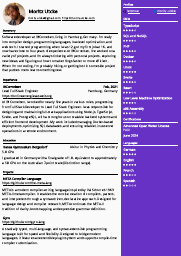
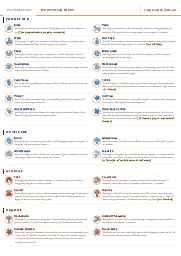
feat: tab strip sits on the pane instead of above it
The strip renders inside the pane card as its header, so the tabs and the
listing share one panel: the selected tab carries the pane's background,
the rest sit on the recessed rail. Padding moved onto the tabs themselves,
and the close button now shows only on the selected tab.

Made by Claude (AI), not a human.

diff --git a/frontend/src/lib/FilePane.svelte b/frontend/src/lib/FilePane.svelte
@@ -1,5 +1,5 @@
 <script lang="ts">
-	import { untrack } from "svelte";
+	import { untrack, type Snippet } from "svelte";
 	import { Card, LoadingSpinner } from "@neoworks-dev/ui";
 	import WarningIcon from "phosphor-svelte/lib/WarningIcon";
 	import {
@@ -72,6 +72,7 @@
 		onBackgroundMenu,
 		onSort,
 		onChanged,
+		header,
 	}: {
 		location: TabLocation;
 		viewMode: ViewMode;
@@ -88,6 +89,8 @@
 		onSort: (key: SortKey) => void;
 		/** Something in this pane wrote to disk, which the undo label follows. */
 		onChanged: () => void;
+		/** Rendered flush against the top edge of the pane, above the listing. */
+		header?: Snippet;
 	} = $props();
 
 	let listing = $state<filesystem.Listing | null>(null);
@@ -645,105 +648,109 @@
 <Card
 	surface="elevated"
 	padding="none"
-	class="flex min-w-0 flex-1 flex-col gap-2 overflow-hidden p-2 shadow-lg"
+	class="flex min-w-0 flex-1 flex-col overflow-hidden shadow-lg"
 >
-	{#if location.kind === "trash"}
-		<div class="flex min-h-0 flex-col gap-2 overflow-y-auto">
-			<TrashPane onRestored={() => onChanged()} />
-		</div>
-	{:else if location.kind === "tag"}
-		<div class="flex min-h-0 flex-col gap-2 overflow-y-auto">
-			<TagPane name={location.name} onOpen={openEntry} onReveal={revealTaggedEntry} />
-		</div>
-	{:else if errorMessage}
-		<Card surface="raised" padding="none" class="flex items-center gap-2 p-2">
-			<WarningIcon size={20} class="shrink-0 text-red" />
-			<div class="min-w-0">
-				<p class="text-sm font-medium text-default">Could not open this folder</p>
-				<p class="truncate text-xs text-dim">{errorMessage}</p>
+	{@render header?.()}
+
+	<div class="flex min-h-0 flex-1 flex-col gap-2 p-2">
+		{#if location.kind === "trash"}
+			<div class="flex min-h-0 flex-col gap-2 overflow-y-auto">
+				<TrashPane onRestored={() => onChanged()} />
 			</div>
-		</Card>
-	{:else if isLoading}
-		<div class="flex justify-center p-2">
-			<LoadingSpinner />
-		</div>
-	{:else}
-		{#if actionError}
-			<button
-				type="button"
-				onclick={dismissActionError}
-				class="flex items-center gap-2 rounded-lg bg-raised p-2 text-left"
-			>
-				<WarningIcon size={16} class="shrink-0 text-red" />
-				<span class="min-w-0 flex-1 truncate text-xs text-dim">{actionError}</span>
-			</button>
-		{/if}
-		{#if isFindOpen}
-			<FindField
-				names={visibleEntries.map((entry) => entry.name)}
-				focusIndex={selection.focusIndex}
-				onMatch={jumpToFound}
-				onClose={closeFind}
-			/>
-		{/if}
-		<div
-			bind:this={listContainer}
-			role="listbox"
-			tabindex="0"
-			aria-label="Directory contents"
-			aria-multiselectable="true"
-			aria-activedescendant={activeDescendant()}
-			oncontextmenu={openEmptyAreaMenu}
-			onpointerdown={startBand}
-			onpointermove={updateBand}
-			onpointerup={endBand}
-			onfocus={onActivate}
-			onscroll={trackScroll}
-			class="min-h-0 flex-1 overflow-y-auto rounded-lg focus-visible:ring-1 focus-visible:ring-inset focus-visible:ring-line-faint focus-visible:outline-none"
-		>
-			{#if viewMode === "grid"}
-				<EntryGrid
-					entries={mountedEntries}
-					firstIndex={mountedWindow.firstIndex}
-					topPadding={mountedWindow.topPadding}
-					bottomPadding={mountedWindow.bottomPadding}
-					columns={activeColumns}
-					{selectedPaths}
-					{cutPaths}
-					{gitStatuses}
+		{:else if location.kind === "tag"}
+			<div class="flex min-h-0 flex-col gap-2 overflow-y-auto">
+				<TagPane name={location.name} onOpen={openEntry} onReveal={revealTaggedEntry} />
+			</div>
+		{:else if errorMessage}
+			<Card surface="raised" padding="none" class="flex items-center gap-2 p-2">
+				<WarningIcon size={20} class="shrink-0 text-red" />
+				<div class="min-w-0">
+					<p class="text-sm font-medium text-default">Could not open this folder</p>
+					<p class="truncate text-xs text-dim">{errorMessage}</p>
+				</div>
+			</Card>
+		{:else if isLoading}
+			<div class="flex justify-center p-2">
+				<LoadingSpinner />
+			</div>
+		{:else}
+			{#if actionError}
+				<button
+					type="button"
+					onclick={dismissActionError}
+					class="flex items-center gap-2 rounded-lg bg-raised p-2 text-left"
+				>
+					<WarningIcon size={16} class="shrink-0 text-red" />
+					<span class="min-w-0 flex-1 truncate text-xs text-dim">{actionError}</span>
+				</button>
+			{/if}
+			{#if isFindOpen}
+				<FindField
+					names={visibleEntries.map((entry) => entry.name)}
 					focusIndex={selection.focusIndex}
-					{renamingPath}
-					onSelect={selectEntry}
-					onOpen={openEntry}
-					onContextMenu={openContextMenu}
-					onRenameCommit={commitRename}
-					onRenameCancel={cancelRename}
-					onMetrics={applyMetrics}
-				/>
-			{:else}
-				<EntryRows
-					entries={mountedEntries}
-					firstIndex={mountedWindow.firstIndex}
-					topPadding={mountedWindow.topPadding}
-					bottomPadding={mountedWindow.bottomPadding}
-					columns={activeColumns}
-					{selectedPaths}
-					{cutPaths}
-					{gitStatuses}
-					focusIndex={selection.focusIndex}
-					{renamingPath}
-					onSelect={selectEntry}
-					onOpen={openEntry}
-					onContextMenu={openContextMenu}
-					onRenameCommit={commitRename}
-					onRenameCancel={cancelRename}
-					onMetrics={applyMetrics}
-					order={sortOrder}
-					{onSort}
+					onMatch={jumpToFound}
+					onClose={closeFind}
 				/>
 			{/if}
-		</div>
-	{/if}
+			<div
+				bind:this={listContainer}
+				role="listbox"
+				tabindex="0"
+				aria-label="Directory contents"
+				aria-multiselectable="true"
+				aria-activedescendant={activeDescendant()}
+				oncontextmenu={openEmptyAreaMenu}
+				onpointerdown={startBand}
+				onpointermove={updateBand}
+				onpointerup={endBand}
+				onfocus={onActivate}
+				onscroll={trackScroll}
+				class="min-h-0 flex-1 overflow-y-auto rounded-lg focus-visible:ring-1 focus-visible:ring-inset focus-visible:ring-line-faint focus-visible:outline-none"
+			>
+				{#if viewMode === "grid"}
+					<EntryGrid
+						entries={mountedEntries}
+						firstIndex={mountedWindow.firstIndex}
+						topPadding={mountedWindow.topPadding}
+						bottomPadding={mountedWindow.bottomPadding}
+						columns={activeColumns}
+						{selectedPaths}
+						{cutPaths}
+						{gitStatuses}
+						focusIndex={selection.focusIndex}
+						{renamingPath}
+						onSelect={selectEntry}
+						onOpen={openEntry}
+						onContextMenu={openContextMenu}
+						onRenameCommit={commitRename}
+						onRenameCancel={cancelRename}
+						onMetrics={applyMetrics}
+					/>
+				{:else}
+					<EntryRows
+						entries={mountedEntries}
+						firstIndex={mountedWindow.firstIndex}
+						topPadding={mountedWindow.topPadding}
+						bottomPadding={mountedWindow.bottomPadding}
+						columns={activeColumns}
+						{selectedPaths}
+						{cutPaths}
+						{gitStatuses}
+						focusIndex={selection.focusIndex}
+						{renamingPath}
+						onSelect={selectEntry}
+						onOpen={openEntry}
+						onContextMenu={openContextMenu}
+						onRenameCommit={commitRename}
+						onRenameCancel={cancelRename}
+						onMetrics={applyMetrics}
+						order={sortOrder}
+						{onSort}
+					/>
+				{/if}
+			</div>
+		{/if}
+	</div>
 </Card>
 
 {#if band}

diff --git a/frontend/src/lib/TabStrip.svelte b/frontend/src/lib/TabStrip.svelte
@@ -26,34 +26,39 @@
 	} = $props();
 </script>
 
-<div class="flex shrink-0 items-center gap-1 overflow-x-auto">
+<!-- The rail is the recessed surface the pane sits on: the selected tab carries
+     the pane's own background down to the listing, so the two read as one panel. -->
+<div class="flex shrink-0 items-stretch gap-px overflow-x-auto bg-raised">
 	{#each group.tabs as tab (tab.id)}
 		{@const selected = tab.id === group.activeTabId}
 		<div
-			class="group/tab flex min-w-0 items-center rounded-md transition duration-fast"
-			class:bg-raised={selected && isActive}
-			class:bg-hover={selected && !isActive}
+			class="flex min-w-0 items-center transition duration-fast"
+			class:bg-elevated={selected}
+			class:hover:bg-hover={!selected}
 		>
 			<button
 				type="button"
 				onclick={() => onSelect(tab.id)}
 				aria-current={selected ? "page" : undefined}
 				title={tabTitle(tab)}
-				class="min-w-0 max-w-40 truncate rounded-md py-1 pr-1 pl-2 text-xs transition duration-fast"
-				class:text-default={selected}
+				class="min-w-0 max-w-40 truncate px-2 py-1.5 text-xs transition duration-fast"
+				class:text-default={selected && isActive}
+				class:text-dim={selected && !isActive}
 				class:text-muted={!selected}
 				class:hover:text-default={!selected}
 			>
 				{tabTitle(tab)}
 			</button>
-			<button
-				type="button"
-				onclick={() => onClose(tab.id)}
-				aria-label="Close {tabTitle(tab)}"
-				class="mr-1 shrink-0 rounded-sm p-0.5 text-faint opacity-0 transition duration-fast group-hover/tab:opacity-100 hover:bg-hover hover:text-default focus-visible:opacity-100"
-			>
-				<XIcon size={10} />
-			</button>
+			{#if selected}
+				<button
+					type="button"
+					onclick={() => onClose(tab.id)}
+					aria-label="Close {tabTitle(tab)}"
+					class="mr-1 shrink-0 rounded-sm p-0.5 text-faint transition duration-fast hover:bg-hover hover:text-default"
+				>
+					<XIcon size={10} />
+				</button>
+			{/if}
 		</div>
 	{/each}
 
@@ -61,7 +66,7 @@
 		type="button"
 		onclick={onOpen}
 		aria-label="New tab"
-		class="shrink-0 rounded-md p-1 text-faint transition duration-fast hover:bg-hover hover:text-default"
+		class="shrink-0 px-1.5 text-faint transition duration-fast hover:bg-hover hover:text-default"
 	>
 		<PlusIcon size={12} />
 	</button>
@@ -73,7 +78,7 @@
 			type="button"
 			onclick={onSplit}
 			aria-label="Split the view"
-			class="shrink-0 rounded-md p-1 text-faint transition duration-fast hover:bg-hover hover:text-default"
+			class="shrink-0 px-1.5 text-faint transition duration-fast hover:bg-hover hover:text-default"
 		>
 			<ColumnsIcon size={12} />
 		</button>

diff --git a/frontend/src/App.svelte b/frontend/src/App.svelte
@@ -1215,22 +1215,10 @@
 				<div class="w-2 shrink-0"></div>
 			{/if}
 			<div
-				class="flex min-w-0 flex-1 flex-col gap-1 rounded-xl"
+				class="flex min-w-0 flex-1 flex-col rounded-xl"
 				class:ring-1={layout.groups.length > 1 && paneGroup.id === layout.activeGroupId}
 				class:ring-line-faint={layout.groups.length > 1 && paneGroup.id === layout.activeGroupId}
 			>
-				<TabStrip
-					group={paneGroup}
-					isActive={paneGroup.id === layout.activeGroupId}
-					canSplit={layout.groups.length < maximumGroups}
-					onSelect={(tabId) => (layout = activateTab(layout, paneGroup.id, tabId))}
-					onClose={(tabId) => (layout = closeTab(layout, paneGroup.id, tabId))}
-					onOpen={() => {
-						activateGroup(paneGroup.id);
-						openNewTab();
-					}}
-					onSplit={splitPane}
-				/>
 				<FilePane
 					bind:this={panes[paneGroup.id]}
 					location={activeTab(paneGroup).location}
@@ -1250,7 +1238,22 @@
 					onBackgroundMenu={openBackgroundMenu}
 					onSort={sortByColumn}
 					onChanged={() => operations.refreshUndoLabel()}
-				/>
+				>
+					{#snippet header()}
+						<TabStrip
+							group={paneGroup}
+							isActive={paneGroup.id === layout.activeGroupId}
+							canSplit={layout.groups.length < maximumGroups}
+							onSelect={(tabId) => (layout = activateTab(layout, paneGroup.id, tabId))}
+							onClose={(tabId) => (layout = closeTab(layout, paneGroup.id, tabId))}
+							onOpen={() => {
+								activateGroup(paneGroup.id);
+								openNewTab();
+							}}
+							onSplit={splitPane}
+						/>
+					{/snippet}
+				</FilePane>
 			</div>
 		{/each}
 
